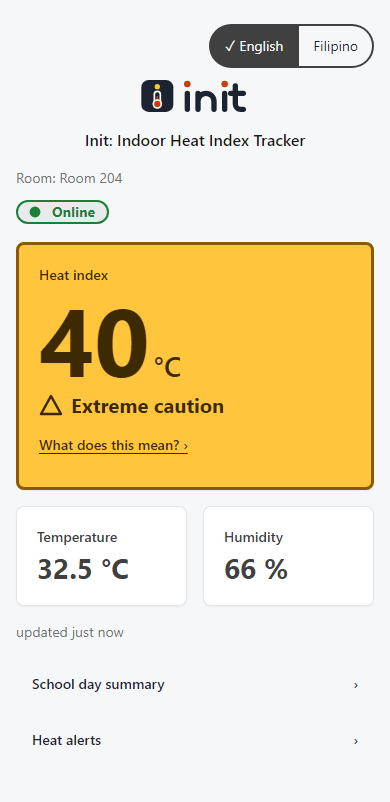
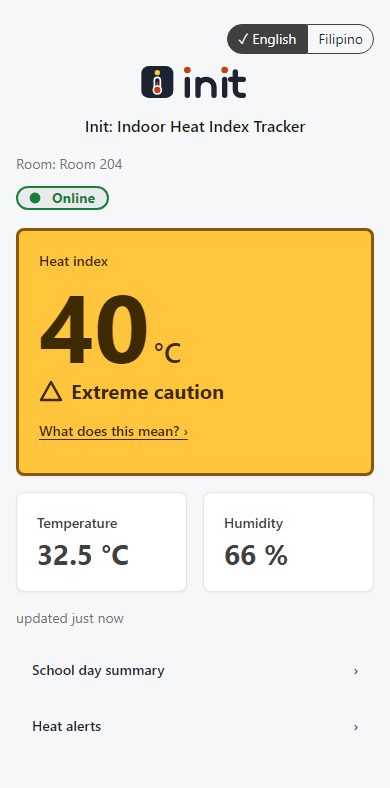
s36: language toggle mock scaled down (30 px, 12 px text)

diff --git a/design/language-toggle/home-en.html b/design/language-toggle/home-en.html
@@ -5,8 +5,8 @@
 <link rel="stylesheet" href="../../web/src/tokens.css"><link rel="stylesheet" href="../../web/src/app.css"><link rel="stylesheet" href="../../web/src/school.css"><link rel="stylesheet" href="../../web/src/alerts.css">
 <style>
 .lang-switch{display:flex;justify-content:flex-end;margin:0 0 8px}
-.lang-btn{min-height:44px;min-width:44px;padding:0 14px;font:600 14px/1 inherit;font-family:inherit;border:2px solid var(--tblr-body-color,#182433);background:transparent;color:inherit;cursor:pointer}
-.lang-btn:first-child{border-radius:999px 0 0 999px;border-right-width:1px}.lang-btn:last-child{border-radius:0 999px 999px 0;border-left-width:1px}
+.lang-btn{min-height:30px;min-width:30px;padding:0 10px;font:600 12px/1 inherit;font-family:inherit;border:1.5px solid var(--tblr-body-color,#182433);background:transparent;color:inherit;cursor:pointer}
+.lang-btn:first-child{border-radius:999px 0 0 999px;border-right-width:.75px}.lang-btn:last-child{border-radius:0 999px 999px 0;border-left-width:.75px}
 .lang-btn[aria-pressed="true"]{background:var(--tblr-body-color,#182433);color:var(--tblr-body-bg,#fff)}
 </style></head><body>
 <main class="app-wrap">

diff --git a/design/language-toggle/home-fil-longest.html b/design/language-toggle/home-fil-longest.html
@@ -5,8 +5,8 @@
 <link rel="stylesheet" href="../../web/src/tokens.css"><link rel="stylesheet" href="../../web/src/app.css"><link rel="stylesheet" href="../../web/src/school.css"><link rel="stylesheet" href="../../web/src/alerts.css">
 <style>
 .lang-switch{display:flex;justify-content:flex-end;margin:0 0 8px}
-.lang-btn{min-height:44px;min-width:44px;padding:0 14px;font:600 14px/1 inherit;font-family:inherit;border:2px solid var(--tblr-body-color,#182433);background:transparent;color:inherit;cursor:pointer}
-.lang-btn:first-child{border-radius:999px 0 0 999px;border-right-width:1px}.lang-btn:last-child{border-radius:0 999px 999px 0;border-left-width:1px}
+.lang-btn{min-height:30px;min-width:30px;padding:0 10px;font:600 12px/1 inherit;font-family:inherit;border:1.5px solid var(--tblr-body-color,#182433);background:transparent;color:inherit;cursor:pointer}
+.lang-btn:first-child{border-radius:999px 0 0 999px;border-right-width:.75px}.lang-btn:last-child{border-radius:0 999px 999px 0;border-left-width:.75px}
 .lang-btn[aria-pressed="true"]{background:var(--tblr-body-color,#182433);color:var(--tblr-body-bg,#fff)}
 </style></head><body>
 <main class="app-wrap">

diff --git a/design/language-toggle/home-fil.html b/design/language-toggle/home-fil.html
@@ -5,8 +5,8 @@
 <link rel="stylesheet" href="../../web/src/tokens.css"><link rel="stylesheet" href="../../web/src/app.css"><link rel="stylesheet" href="../../web/src/school.css"><link rel="stylesheet" href="../../web/src/alerts.css">
 <style>
 .lang-switch{display:flex;justify-content:flex-end;margin:0 0 8px}
-.lang-btn{min-height:44px;min-width:44px;padding:0 14px;font:600 14px/1 inherit;font-family:inherit;border:2px solid var(--tblr-body-color,#182433);background:transparent;color:inherit;cursor:pointer}
-.lang-btn:first-child{border-radius:999px 0 0 999px;border-right-width:1px}.lang-btn:last-child{border-radius:0 999px 999px 0;border-left-width:1px}
+.lang-btn{min-height:30px;min-width:30px;padding:0 10px;font:600 12px/1 inherit;font-family:inherit;border:1.5px solid var(--tblr-body-color,#182433);background:transparent;color:inherit;cursor:pointer}
+.lang-btn:first-child{border-radius:999px 0 0 999px;border-right-width:.75px}.lang-btn:last-child{border-radius:0 999px 999px 0;border-left-width:.75px}
 .lang-btn[aria-pressed="true"]{background:var(--tblr-body-color,#182433);color:var(--tblr-body-bg,#fff)}
 </style></head><body>
 <main class="app-wrap">

diff --git a/design/language-toggle/README.md b/design/language-toggle/README.md
@@ -10,7 +10,7 @@
 | `build-mocks.mjs`, `capture.mjs` | Write the mocks and the screenshots |
 
 ## What is proposed
-- **The switch:** two buttons, English and Filipino, in one outlined pill at the top right of the header on every page (44 px tall). The chosen one is filled and has a check mark, so colour is not the only signal. Choice kept on the phone (localStorage), default English; the page's `lang` attribute follows it.
+- **The switch:** two buttons, English and Filipino, in one outlined pill at the top right of the header on every page (30 px tall, 12 px text; WCAG 2.2 minimum target is 24 px). The chosen one is filled and has a check mark, so colour is not the only signal. Choice kept on the phone (localStorage), default English; the page's `lang` attribute follows it.
 - **Everything the app says** moves into one English list and one Filipino list. Not translated on purpose: the brand "Init", "heat index" (PAGASA uses the English term), units, and numbers.
 - **Not covered by the first version (say if you want them):** the `#heat` page paragraphs, the `#guide` pages, the admin view, alerts push text, the kiosk and the poster. The proposal is to do the home, school day, alerts page and status texts first; the long advice and guide pages after a teacher has reviewed the first set.
 
